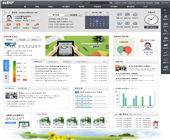
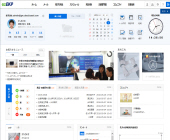
결함 #13268 슬라이드 이미지 일본어가 있는것으로 교체요망

diff --git a/src/main/webapp/css/default_jp.css b/src/main/webapp/css/default_jp.css
@@ -1944,7 +1944,7 @@ form{display:inline;margin:0}
 .theme_sublist { table-layout:fixed; width:100%; font-size:12px; border-spacing:0; border-collapse:collapse; border-top:2px solid #a8c8e7;border-left:1px solid #cbc9c9;border-right:1px solid #cbc9c9;}
 .theme_sublist th { background:#f8f8f8;  margin:0px; padding:0px 10px!important;border:0px; border-bottom:1px solid #cbc9c9; height:33px; font-weight:normal;}
 .theme_sublist td { border-bottom:1px solid #cbc9c9; background:#fff; text-align:left;white-space:nowrap; overflow:hidden; text-overflow:ellipsis;} 
-.theme_img { width:175px; height:140px; border:1px solid #cfcfcf;vertical-align: middle;text-align: center;}
+.theme_img { width:170px; height:140px; border:1px solid #cfcfcf;vertical-align: middle;text-align: center;}
 
 .statistics_select { width:460px; height:206px;background:url(../images/admin/statistics_selectimg.gif) no-repeat 0px 10px; overflow:hidden;}
 .statistics_txt { margin:60px 0px 0px 220px; padding:0px; font-size:12px; text-align:left ;line-height:160%;}

diff --git a/src/main/webapp/css/default_kr.css b/src/main/webapp/css/default_kr.css
@@ -1957,7 +1957,7 @@ form{display:inline;margin:0}
 .theme_sublist { table-layout:fixed; width:100%; font-size:12px; border-spacing:0; border-collapse:collapse; border-top:2px solid #a8c8e7;border-left:1px solid #cbc9c9;border-right:1px solid #cbc9c9;}
 .theme_sublist th { background:#f8f8f8;  margin:0px; padding:0px 10px!important;border:0px; border-bottom:1px solid #cbc9c9; height:33px; font-weight:normal;}
 .theme_sublist td { border-bottom:1px solid #cbc9c9; background:#fff; text-align:left;white-space:nowrap; overflow:hidden; text-overflow:ellipsis;} 
-.theme_img { width:175px; height:140px; border:1px solid #cfcfcf;vertical-align: middle;text-align: center;}
+.theme_img { width:170px; height:140px; border:1px solid #cfcfcf;vertical-align: middle;text-align: center;}
 
 .statistics_select { width:460px; height:206px;background:url(../images/admin/statistics_selectimg.gif) no-repeat 0px 10px; overflow:hidden;}
 .statistics_txt { margin:60px 0px 0px 220px; padding:0px; font-size:12px; text-align:left ;line-height:160%;}